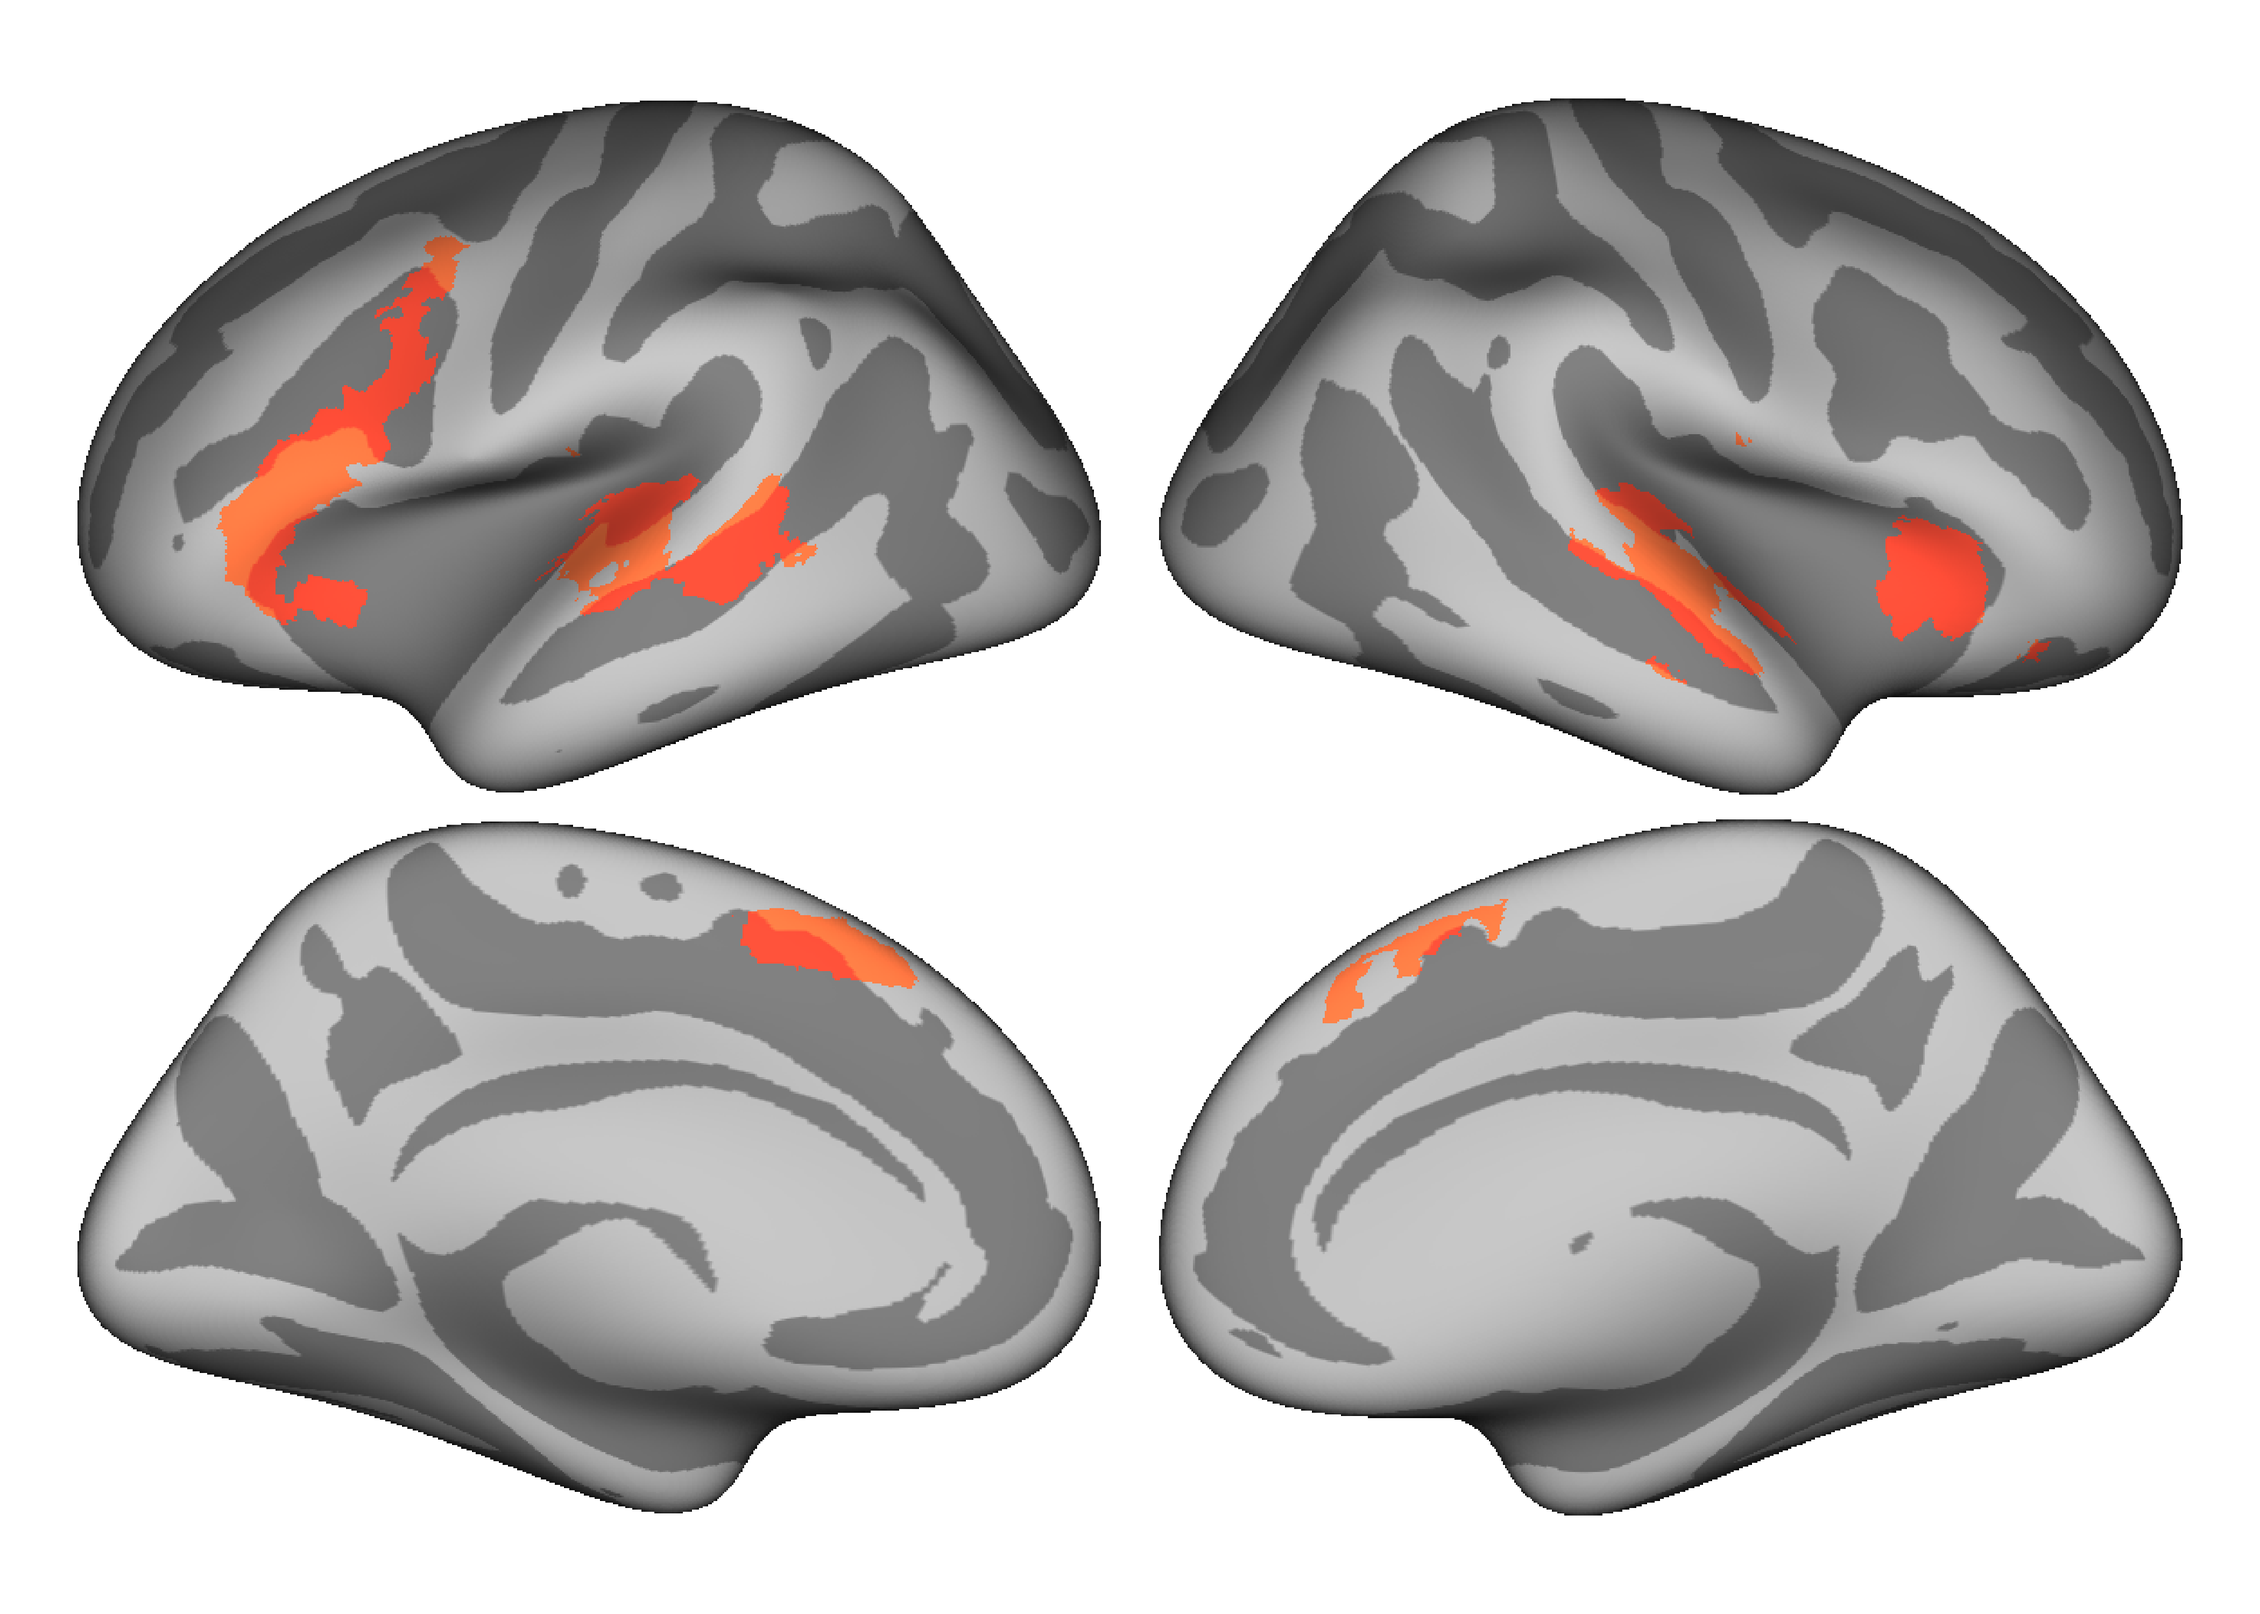
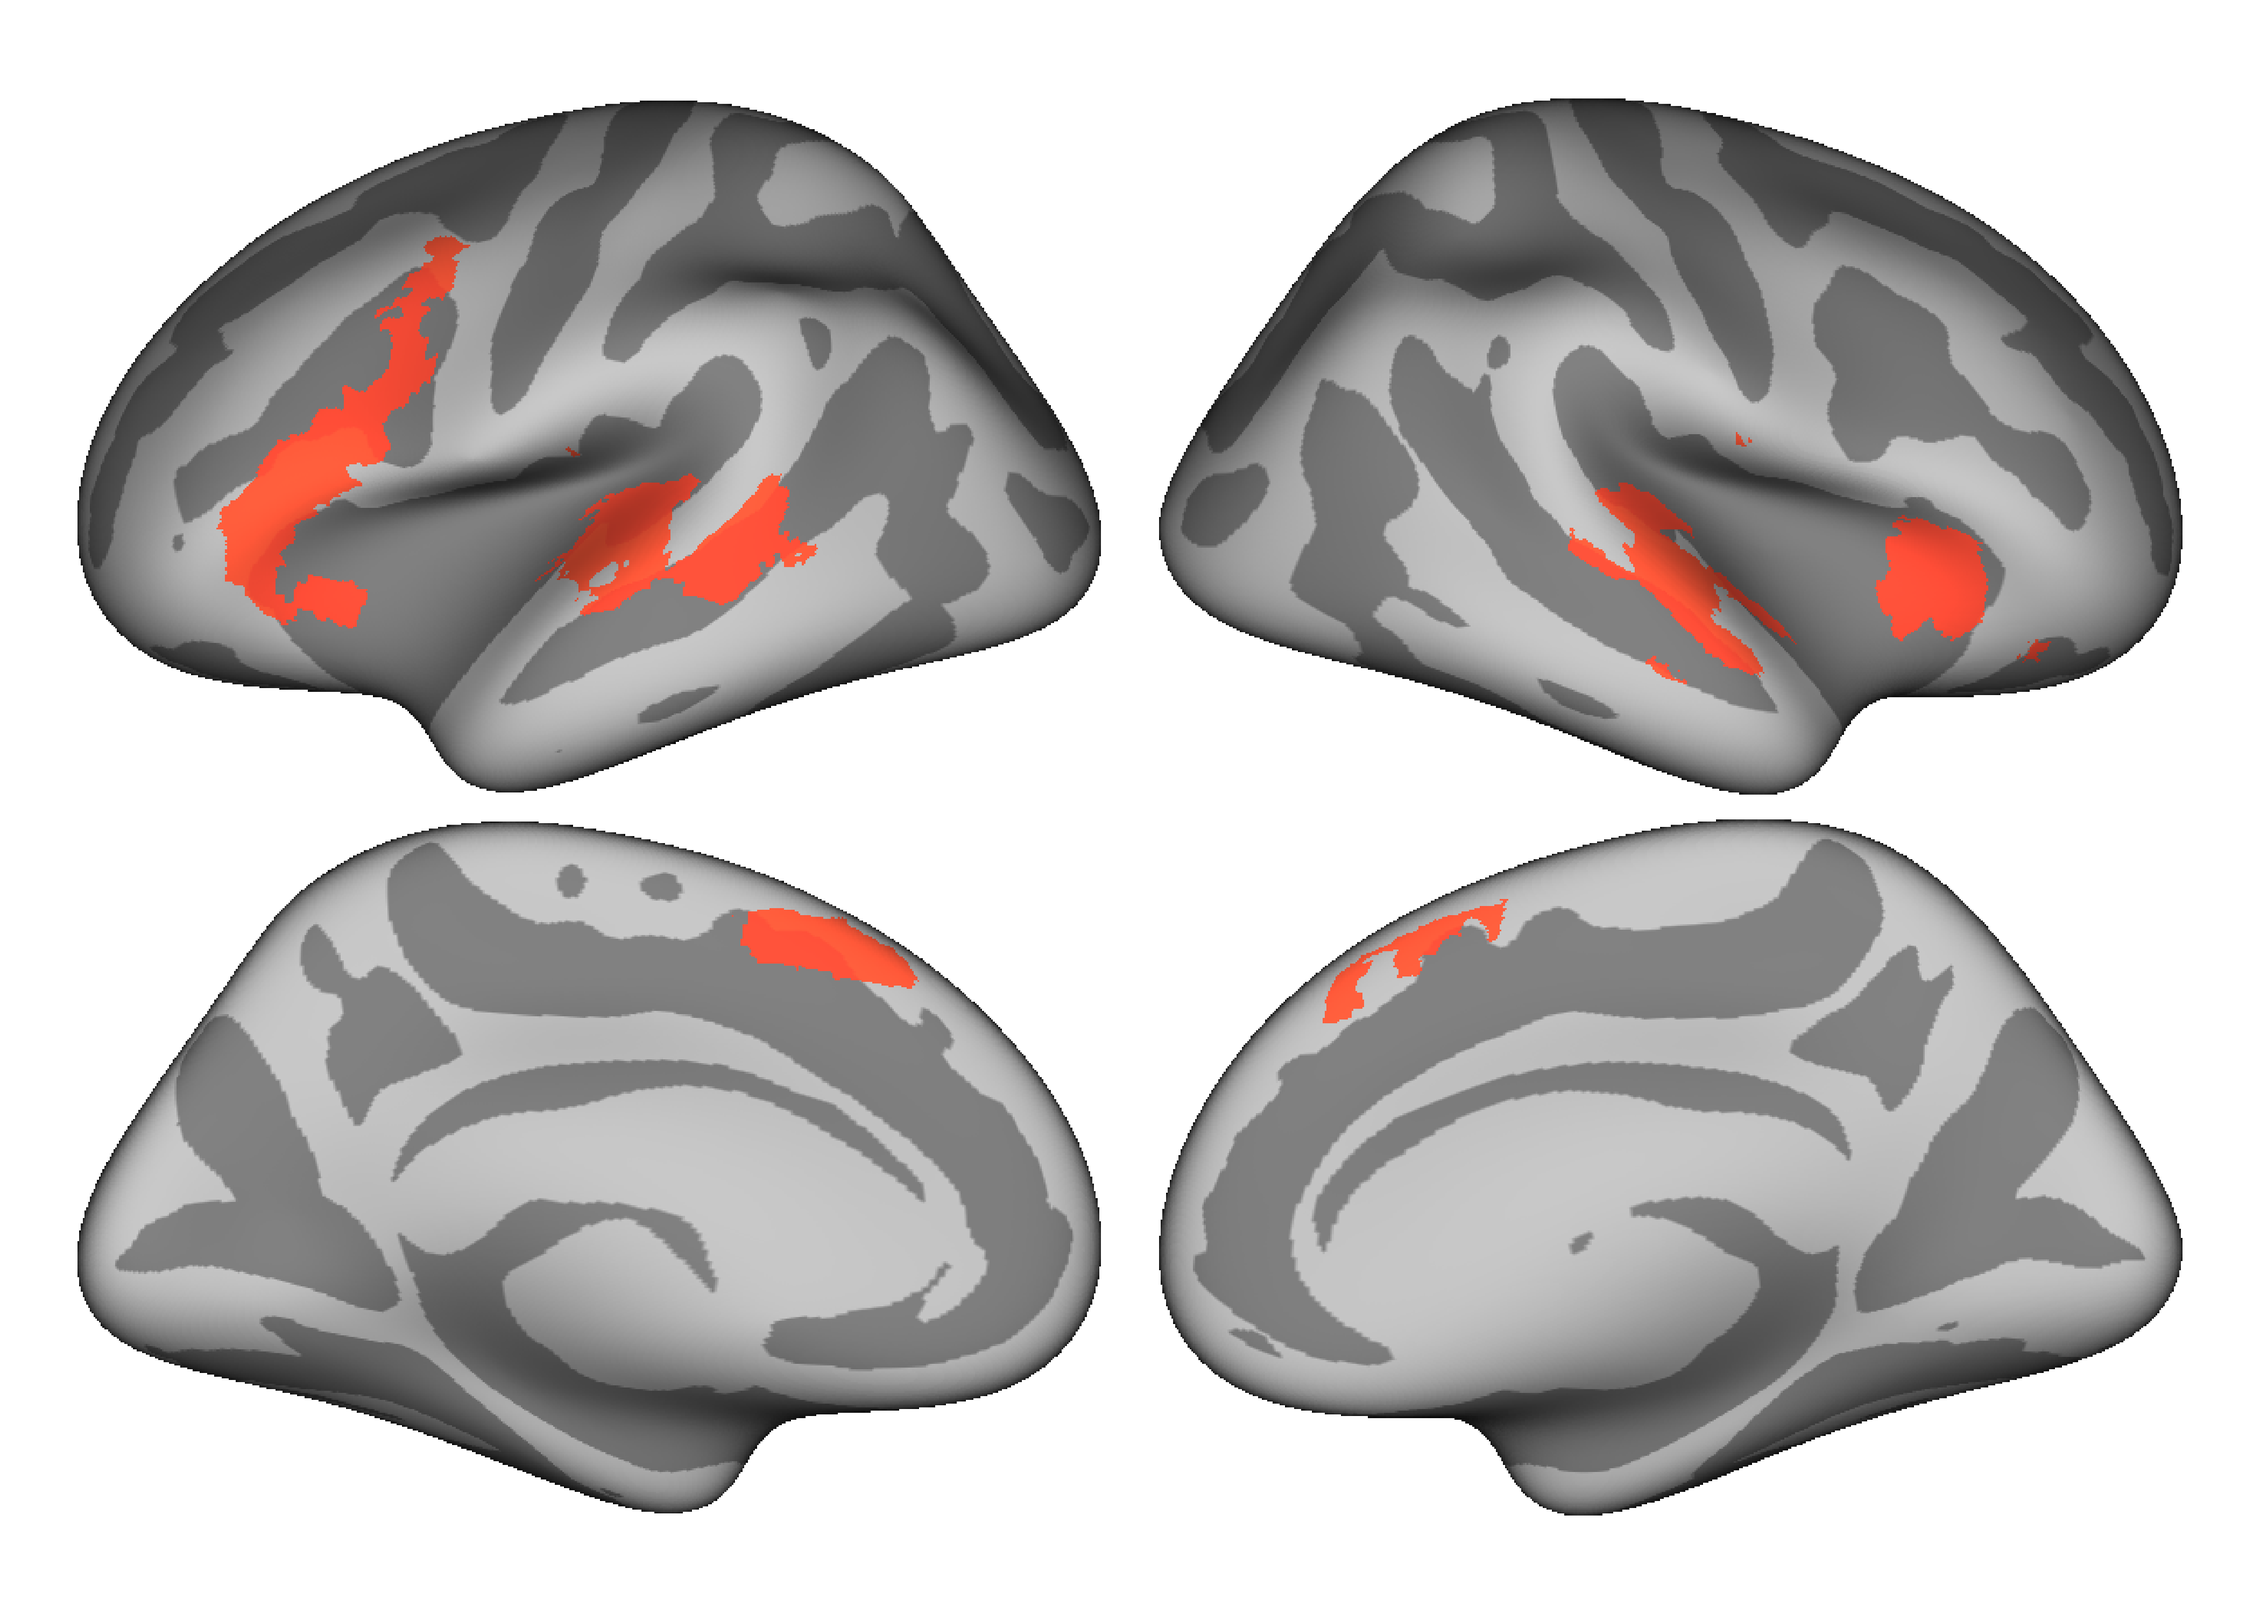
Reduce cluster opacity

diff --git a/code/plot_brains.py b/code/plot_brains.py
@@ -142,7 +142,7 @@ def plot_surf_clusters(cluster_map,
 
     # Multiply cluster data with sulcal data
     # Makes the sulci and gyri "shine through" the clusters (like opacity)
-    sulc_data_mult = np.where(sulc_data > 0, 1.0, 1.3)
+    sulc_data_mult = np.where(sulc_data > 0, 1.0, 1.1)
     cluster_data_mulc = cluster_data_thresh * sulc_data_mult
 
     # Plot thresholded maps
